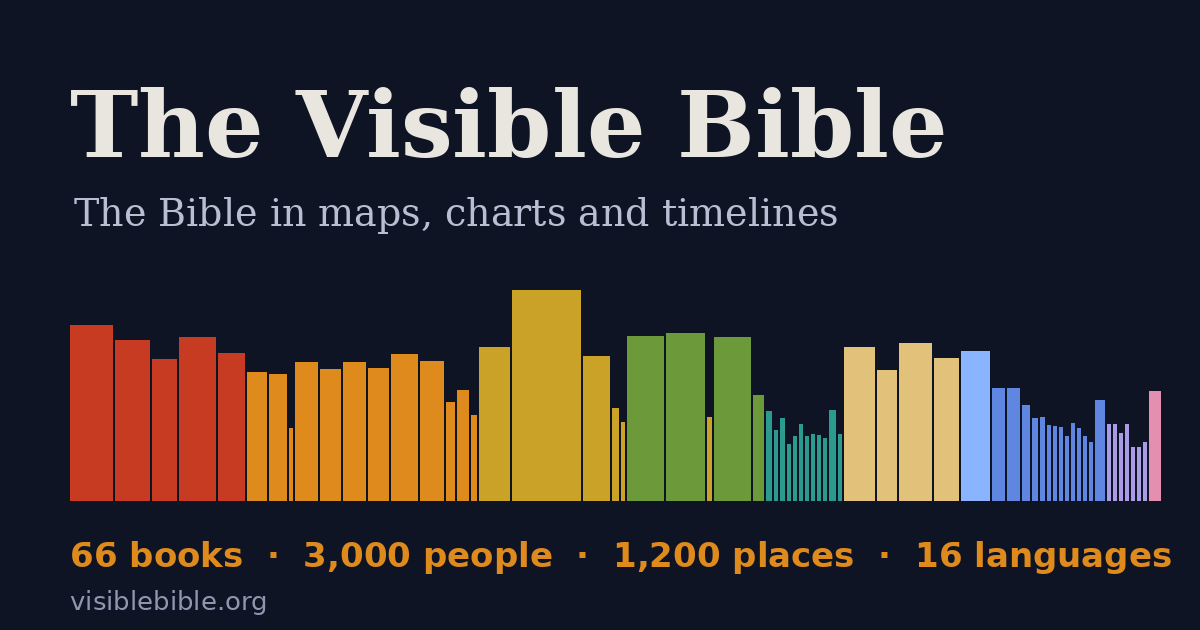
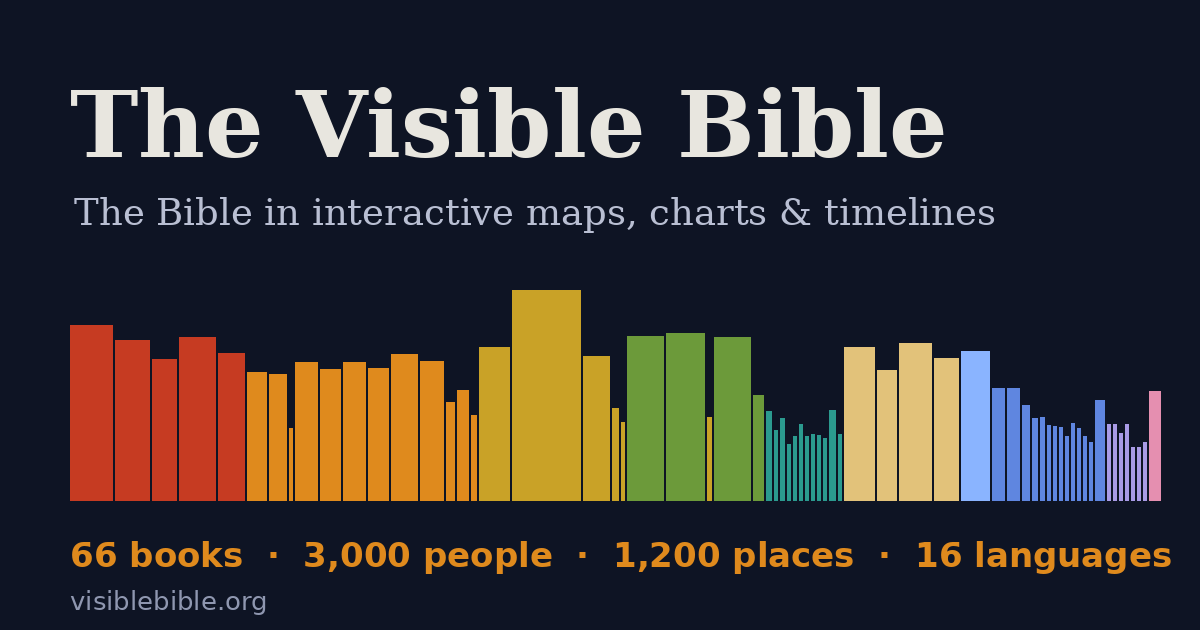
Interactive tagline in title, description, social tags and preview image
Claude-Session: https://claude.ai/code/session_01HeMLibs2G1LFPdTXecVwj5

Changed region(s): [[0.0617, 0.3016, 0.8325, 0.3619]]

diff --git a/index.html b/index.html
@@ -3,14 +3,14 @@
 <head>
 <meta charset="utf-8">
 <meta name="viewport" content="width=device-width,initial-scale=1">
-<title>The Visible Bible: Bible Maps, Timeline and Character Network in 16 Languages</title>
-<meta name="description" content="Explore the Bible visually: 66 books drawn to scale, a map of 1,200 places, a timeline of 501 events, and a network of about 3,000 people. Free, in 16 languages, neutral and historical.">
+<title>The Visible Bible: Interactive Bible Maps and Timelines in 16 Languages</title>
+<meta name="description" content="Explore the Bible with interactive maps, charts and timelines: 66 books drawn to scale, 1,200 places, 501 events and about 3,000 people. Free, in 16 languages, neutral and historical.">
 <meta name="robots" content="index,follow,max-image-preview:large">
 <link rel="canonical" href="https://visiblebible.org/">
 <meta property="og:type" content="website">
 <meta property="og:site_name" content="The Visible Bible">
-<meta property="og:title" content="The Visible Bible: the Bible in maps, charts and timelines, in 16 languages">
-<meta property="og:description" content="See the Bible's 66 books, people, places and events as interactive maps, timelines and networks. Free, in 16 languages.">
+<meta property="og:title" content="The Bible in interactive maps, charts &amp; timelines">
+<meta property="og:description" content="The Visible Bible: 66 books, about 3,000 people and 1,200 places as interactive maps, timelines and networks. Free, in 16 languages.">
 <meta property="og:url" content="https://visiblebible.org/">
 <meta property="og:image" content="https://visiblebible.org/og.png">
 <meta property="og:image:width" content="1200">
@@ -18,7 +18,7 @@
 <meta property="og:image:alt" content="The Visible Bible: 66 books drawn to scale. 3,000 people, 1,200 places, 16 languages.">
 <meta name="twitter:card" content="summary_large_image">
 <meta name="twitter:image" content="https://visiblebible.org/og.png">
-<meta name="twitter:title" content="The Visible Bible: the Bible in maps, charts and timelines">
+<meta name="twitter:title" content="The Bible in interactive maps, charts &amp; timelines">
 <meta name="twitter:description" content="Interactive maps, timelines and character networks of the Bible, in 16 languages.">
 <script type="application/ld+json">{"@context":"https://schema.org","@graph":[{"@type":"WebSite","@id":"https://visiblebible.org/#site","url":"https://visiblebible.org/","name":"The Visible Bible","description":"The Bible as a cultural and historical document, shown through interactive maps, charts, timelines and character networks.","inLanguage":["en","zh","zh-Hant","fr","es","ar","de","el","he","it","ja","ko","pt","ru","sw","tr"],"author":{"@type":"Person","name":"Alexander Mou"}},{"@type":"Dataset","name":"The Visible Bible: people, places and events of the Bible","description":"Structured data on 66 books, 1,189 chapters, 31,102 verses, about 3,000 named people, 1,200 places and 501 events, built on Theographic Bible Metadata.","url":"https://visiblebible.org/","license":"https://creativecommons.org/licenses/by-sa/4.0/","isBasedOn":"https://github.com/robertrouse/theographic-bible-metadata","creator":{"@type":"Person","name":"Alexander Mou"}},{"@type":"FAQPage","mainEntity":[{"@type":"Question","name":"How many books, chapters and verses are in the Bible?","acceptedAnswer":{"@type":"Answer","text":"The Bible has 66 books (39 in the Old Testament and 27 in the New Testament), 1,189 chapters and 31,102 verses. The Old Testament has 23,145 verses and the New Testament 7,957."}},{"@type":"Question","name":"What is The Visible Bible?","acceptedAnswer":{"@type":"Answer","text":"The Visible Bible is a free website that shows the Bible as a cultural and historical document through interactive maps, timelines, charts and a network of about 3,000 named people and 1,200 places. It takes no religious position."}},{"@type":"Question","name":"Where does the data come from?","acceptedAnswer":{"@type":"Answer","text":"The data comes from Theographic Bible Metadata by Robert Rouse (CC BY-SA 4.0), the dataset behind viz.bible. Tags are automatic plus hand-checked, so a few are imperfect, and the locations of many ancient places are uncertain."}},{"@type":"Question","name":"Which languages does the site support?","acceptedAnswer":{"@type":"Answer","text":"The interface and Bible text are available in 16 languages: English, Chinese (Simplified and Traditional), French, Spanish, Arabic, German, Greek, Hebrew, Italian, Japanese, Korean, Portuguese, Russian, Swahili and Turkish."}}]}]}</script>
 <link rel="preconnect" href="https://fonts.googleapis.com">
